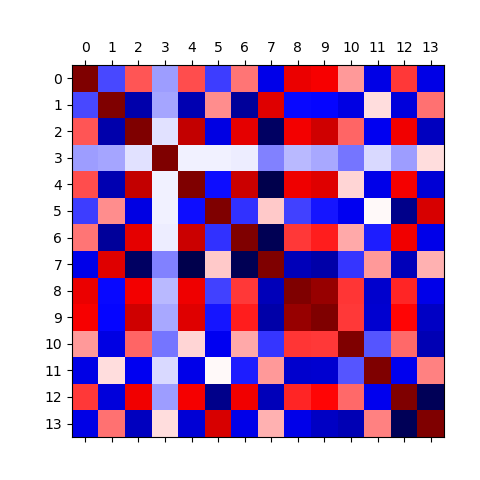
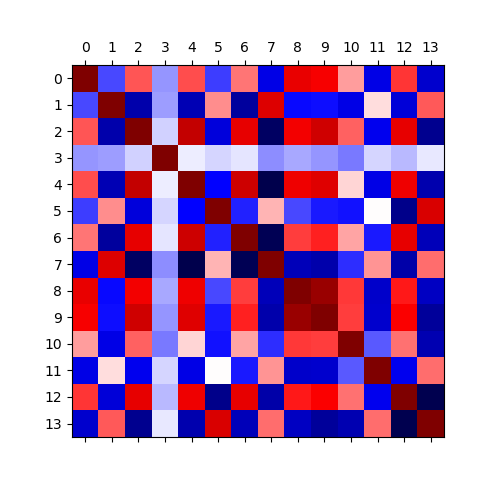
Remove entries with MEDV = 50 and updated readme coherently

diff --git a/linear_regression.py b/linear_regression.py
@@ -2,6 +2,12 @@ import numpy as np
 import matplotlib.pyplot as plt
 
 
+def read_csv_file(file):
+    # Read data from CSV file
+    data = np.genfromtxt(file, delimiter=',', dtype=np.float, skip_header=True)
+    return data
+
+
 def mse(y_prediction, y_true):
     # Calculate mean square error (mse)
     return np.average((y_true - y_prediction) ** 2)
@@ -12,12 +18,8 @@ def rmse(y_prediction, y_true):
     return np.sqrt(mse(y_prediction, y_true))
 
 
-def read_csv_file(file):
-    data = np.genfromtxt(file, delimiter=',', dtype=np.float, skip_header=True)
-    return data
-
-
 def train_test_split(x, y, train_size=0.8):
+    # Split data into training and test set
     train_size = int(len(x) * train_size)
 
     x_train = x[:train_size]
@@ -30,10 +32,12 @@ def train_test_split(x, y, train_size=0.8):
 
 
 def normal_equation(x, y):
+    # Linear regression via normal equation
     return np.matmul(np.matmul(np.linalg.inv(np.matmul(x.T, x)), x.T), y)
 
 
 def gradient_descent(x, y, learning_rate=0.001, nr_of_epochs=10000):
+    # Linear regression via gradient descent
     weights = np.zeros(x.shape[1])
     error_mse = []
     error_rmse = []
@@ -56,6 +60,11 @@ def gradient_descent(x, y, learning_rate=0.001, nr_of_epochs=10000):
     return weights, error_mse, error_rmse
 
 
+def predict(x, weights):
+    # Predict output (i.e. MEDV) based on given features (x) and weights
+    return np.dot(x, weights)
+
+
 def print_subplot(axs, error_rmse, rmse_normal_equation, learning_rate):
     axs.plot(error_rmse)
     axs.set_title('Learning rate {:0.5f}'.format(learning_rate))
@@ -65,16 +74,15 @@ def print_subplot(axs, error_rmse, rmse_normal_equation, learning_rate):
     axs.set_ylim([0, 30])
 
 
-def predict(x, weights):
-    return np.dot(x, weights)
-
-
 def main():
 
     boston_housing_data = read_csv_file('mass_boston.csv')
 
     # Change printing precision of matrices
     np.set_printoptions(precision=3)
+
+    # Remove entries where MEDV is equal to 50.0, as this variable has been censored for higher values
+    boston_housing_data = boston_housing_data[boston_housing_data[:, 13] != 50.0]
 
     # Split features and output variable (y = median house value)
     features = boston_housing_data[:, 0:13]
@@ -95,8 +103,8 @@ def main():
 
     print("Correlation with MEDV {}\n".format(cov[13]))
 
-    # Select features with highest covariance (5 = rm, 10 = ptratio, 12 = lstat)
-    selected_features = norm_features[:, [5, 10, 12]]
+    # Select features with highest covariance (2 = INDUS, 4 = NOX, 5 = RM, 9 = TAX, 10 = PTRATIO, 12 = LSTAT)
+    selected_features = norm_features[:, [2, 4, 5, 9, 10, 12]]
 
     # Add bias
     x = np.c_[np.ones((len(selected_features))), selected_features]
@@ -158,6 +166,7 @@ def main():
     print_subplot(axs[1], error_rmse, rmse_normal_equation, learning_rate)
 
     plt.show()
+
 
 if __name__ == '__main__':
     main()

diff --git a/README.md b/README.md
@@ -16,7 +16,8 @@ python linear_regression.py
 
 ### Preprocessing 
 
-In the first step, the script automatically reads and normalises the CSV file (i.e. `mass_boston.csv`). That is, all 
+In the first step, the script automatically reads, cleans and normalises the CSV file (i.e. `mass_boston.csv`). That is, 
+all entries where MEDV is equal to 50.0 are removed, as this variable has been censored for higher values. Next, all 
 features (0 to 12 in the table below) are scaled into [0,1] by means of a min-max normalisation.
 
 Index | Name    | Description
@@ -41,29 +42,37 @@ To find the most meaningful features for LR, we first conduct a covariance analy
 ![Covariance Matrix](imgs/covariance_matrix.png)
 
 ```
-Correlation with MEDV [-0.388  0.36  -0.484  0.175 -0.427  0.695 -0.377  0.25  -0.382 -0.469
- -0.508  0.333 -0.738  1.   ]
+Correlation with MEDV [-0.45   0.405 -0.6    0.075 -0.524  0.687 -0.493  0.369 -0.476 -0.572
+ -0.519  0.365 -0.76   1.   ]
 ```
 
-It turns out, that RM (feature 5) has a strong positive correlation with MEDV (feature 13), while PTRATIO (feature 10) 
-and LSTAT (feature 12) have a strong negative correlation with MEDV. Hence, for the further evaluation we consider 
-these three features only.
+For the further evaluation we consider only features that have a positive or negative correlation that is greater than 
+0.5:
 
-Next, we add a bias (1) to each row in the dataset and split the dataset into training set (80% of the data) and 
+Index | Name    | Correlation with MEDV
+----- | --------|-------------
+2     | INDUS   | -0.600
+4     | NOX     | -0.524
+5     | RM      | +0.687
+9     | TAX     | -0.572
+10    | PTRATIO | -0.519 
+12    | LSTAT   | -0.760
+
+Next, we add a bias of 1 to each entry in the dataset and split the dataset into training set (80% of the data) and 
 an test set (20% of the data).
 
 ### LR by means of normal equation
 
 Using the training set, we can directly compute the weights (i.e. regression coefficients) of the LR (i.e. one 
-weight for the bias and three weights for the selected features) using normal equation. The trained weights can then 
+weight for the bias and six weights for the selected features) using normal equation. The trained weights can then 
 be used to predict MEDV. That is, LR is evaluated by means of Mean Squared Error (MSE) and Root Mean Squared Error 
 (RMSE) on both training and test set:
 
 ```
 Linear regression via normal equation
-Weights [ 17.183  29.569  -6.752 -18.133]
-Train: MSE 28.0405 / RMSE 5.2953
-Test: MSE 26.9861 / RMSE 5.1948
+Weights [ 18.448  -1.121   0.734  25.841  -4.089  -6.367 -13.639]
+Train: MSE 16.4714 / RMSE 4.0585
+Test: MSE 18.8056 / RMSE 4.3365
 ```
 
 ### LR by means of gradient descent
@@ -73,26 +82,26 @@ neuron to approximate LR. That is, the weights of a neuron are trained by means 
 the regression coefficients of LR.
 
 In the following, we have two different scenarios, viz. one with a higher learning rate (i.e. 0.00100) and one with 
-a smaller learning rate (i.e. 0.00001). In both scenarios, we train the neuron by 1000 epochs.
+a smaller learning rate (i.e. 0.00001). In both scenarios, we train the neuron in 1000 epochs.
 
-In case of higher learning rate, we can observe that the neuron is able to approximate LR correctly. That is, both 
+In case of higher learning rate, we can observe that the neuron is able to approximate LR quickly. That is, both 
 the weights as well as the measures (i.e. MSE and RMSE) are almost identical when compared with LR by means of normal 
 equation.
 
 ```
 Linear regression via gradient descent (learning rate 0.00100)
-Weights [ 17.37   29.325  -6.787 -18.268]
-Train: MSE 28.0412 / RMSE 5.2954
-Test: MSE 26.7880 / RMSE 5.1757
+Weights [ 18.647  -1.144   0.755  25.564  -4.077  -6.394 -13.788]
+Train: MSE 16.4722 / RMSE 4.0586
+Test: MSE 18.7043 / RMSE 4.3248
 ```
 
-In case of lower learning rate, we can observe that the neuron is not able to achieve the same measures and weights.
+In case of lower learning rate, we can observe that the neuron is not able to converge so quickly.
 
 ```
 Linear regression via gradient descent (learning rate 0.00001)
-Weights [15.388 11.707  4.218 -0.701]
-Train: MSE 72.1460 / RMSE 8.4939
-Test: MSE 90.8260 / RMSE 9.5303
+Weights [14.385  0.052  0.602 10.423 -0.091  4.264 -0.685]
+Train: MSE 54.5219 / RMSE 7.3839
+Test: MSE 69.2193 / RMSE 8.3198
 ```
 
 This effect can also be observed by plotting the RMSE for each epoch during training (see figure below). That is, if 
